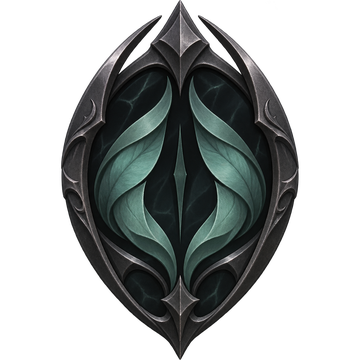
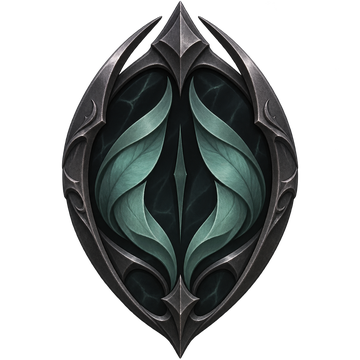
邪眼診断のマイページに、証の覚醒後の画像を追加：購入権限が有効な記録だけ覚醒後、読めない・未購入・返金済みは覚醒前。覚醒前後の14枚を同じ切り抜き枠で揃える
Claude-Session: https://claude.ai/code/session_01G98Q4k59pxprHjFdWRszS7

diff --git a/js/jagan-mypage.js b/js/jagan-mypage.js
@@ -57,15 +57,26 @@
     return r.data || [];
   }
 
-  // 証（覚醒前）：邪眼元素ごとの画像。保存時の見出し（h.element）の漢字から選ぶ。覚醒後の画像は販売の開始まで使わない
-  var EMBLEM_DIR = 'assets/emblems/jagan/record/';
+  // 証：邪眼元素ごとの画像。保存時の見出し（h.element）の漢字から選ぶ。
+  //   覚醒前（record）が既定。その記録に有効な購入権限（jagan_entitlements.status='active'）があるときだけ覚醒後（awakened）。
+  //   購入権限が読めないとき（取得の失敗・未購入）は覚醒前のまま（購入済みと誤って見せない）。
+  var EMBLEM_DIR = 'assets/emblems/jagan/';
   var EMBLEM_FILE = { '炎': 'pyro', '水': 'hydro', '風': 'anemo', '雷': 'electro', '草': 'dendro', '氷': 'cryo', '岩': 'geo' };
-  function emblemHtml(label) {
+  function emblemHtml(label, awakened) {
     var f = EMBLEM_FILE[label];
-    return f ? '<span class="jg-mp-emblem" aria-hidden="true"><img src="' + EMBLEM_DIR + f + '.png" alt="" width="72" height="72" loading="lazy" decoding="async"></span>' : '';
+    return f ? '<span class="jg-mp-emblem' + (awakened ? ' is-awakened' : '') + '" aria-hidden="true"><img src="' + EMBLEM_DIR + (awakened ? 'awakened/' : 'record/') + f + '.png" alt="" width="72" height="72" loading="lazy" decoding="async"></span>' : '';
+  }
+  async function loadAwakened() {
+    // 本人の行だけ（RLS）。失敗しても記録の表示は止めない
+    try {
+      var r = await supabaseClient.from('jagan_entitlements').select('result_id,status').eq('status', 'active');
+      if (r.error || !Array.isArray(r.data)) return {};
+      var m = {}; r.data.forEach(function (e) { if (e && e.status === 'active') m[e.result_id] = true; });
+      return m;
+    } catch (e) { return {}; }
   }
 
-  function rowHtml(row) {
+  function rowHtml(row, awakenedMap) {
     var h = row.headline || {};
     // 保存時の見出しをそのまま出す（DTI のコード・呼び名が無い旧版の記録は、読み替えずにコードを出さない）
     var head = (h.element || '—') + ' × ' + (h.type || '—');
@@ -73,7 +84,7 @@
     var fat = h.character ? ('最も近しいファトゥス：' + h.character + '（' + h.matchPercent + '%一致）') : '';
     var d = new Date(row.created_at);
     return '<li class="jg-mp-row">' +
-      emblemHtml(h.element) +
+      emblemHtml(h.element, !!(awakenedMap && awakenedMap[row.result_id])) +
       '<div class="jg-mp-body"><div class="jg-mp-head">' + esc(head) + '</div><div class="jg-mp-dti">' + esc(dti) + '</div>' + (fat ? '<div class="jg-mp-sub">' + esc(fat) + '</div>' : '') +
       '<div class="jg-mp-date">' + esc(isNaN(d) ? '' : d.toLocaleDateString('ja-JP')) + '</div></div>' +
       '<div class="jg-mp-ops"><a class="mp-btn" href="/jagan/?saved=' + encodeURIComponent(row.result_id) + '">開く ›</a>' +
@@ -105,13 +116,14 @@
     if (saved) lastOutcome = saved;
     var rows = null;
     try { rows = await loadRows(); } catch (e) { rows = null; }
+    var awakened = rows && rows.length ? await loadAwakened() : {};
     var note = '';
     if (lastOutcome && lastOutcome.ok) note = '<p class="jg-mp-note" role="status">邪眼診断の結果を保存しました。</p>';
     else if (lastOutcome && !lastOutcome.ok) note = '<p class="jg-mp-note" role="alert">邪眼診断の結果を保存できませんでした' + (hasPending() ? '（このページを開き直すと再試行します）' : '') + '。</p>';
     var inner;
     if (rows === null) inner = note + '<p class="jg-mp-note">邪眼診断の記録を読み込めませんでした。</p>';
     else if (!rows.length) inner = note + '<p class="jg-mp-note">まだ保存した結果はありません。<a href="/jagan/">邪眼診断を受ける ›</a></p>';
-    else inner = note + '<ul class="jg-mp-list">' + rows.map(rowHtml).join('') + '</ul><p class="jg-mp-note"><a href="/jagan/">邪眼診断をもう一度受ける ›</a></p>';
+    else inner = note + '<ul class="jg-mp-list">' + rows.map(function (r) { return rowHtml(r, awakened); }).join('') + '</ul><p class="jg-mp-note"><a href="/jagan/">邪眼診断をもう一度受ける ›</a></p>';
     var old = document.getElementById('jagan');
     if (old) old.remove();
     var acc = root.querySelector('[aria-labelledby="mp-acc-h"]');

diff --git a/scripts/build-public.js b/scripts/build-public.js
@@ -86,6 +86,7 @@ const PUBLIC_DIRS = [
   { dir: 'assets/emblems/2026-autumn/record', ext: '.png' },   // マイページの記録エンブレム
   { dir: 'assets/emblems/2026-autumn/awakened', ext: '.png' }, // マイページの覚醒エンブレム
   { dir: 'assets/emblems/jagan/record', ext: '.png' },        // 邪眼診断のマイページの証（覚醒前。元素ごと7枚）
+  { dir: 'assets/emblems/jagan/awakened', ext: '.png' },      // 同・覚醒後（購入済みの記録。元素ごと7枚）
   { dir: 'assets/ogp/backgrounds', ext: '.jpg' },              // api/og-image が自サイトから取得する背景（下地が無い時の描き方）
   { dir: 'assets/ogp/bases', ext: '.jpg' },                    // api/og-image の下地（タイプ別35枚。scripts/build-ogp-bases.mjs）
   { dir: 'assets/ogp/bases', ext: '.png' },                    // api/og-image の MIRROR 欄の札（元素別7枚）

diff --git a/docs/jagan/IMPLEMENTATION_REPORT_PREVIEW.md b/docs/jagan/IMPLEMENTATION_REPORT_PREVIEW.md
@@ -121,3 +121,8 @@
 - 2026-11-06：マイページの証（覚醒前）を邪眼診断の記録の行に追加。assets/emblems/jagan/record/{pyro,hydro,anemo,electro,dendro,cryo,geo}.png（360×360・各約130KB。提供画像1254×1254を縮小）。
   元素への割り当ては画像の主な色相で確かめ、添付の表示順（氷・炎・水・雷・風・岩・草）と一致。保存時の見出しの元素（漢字）から選ぶ。ETI の証（assets/emblems/2026-autumn/）は変更しない。
   ETI の「記録」にある減光（不透明度.78・彩度.8・明度.84）は、暗い色の証が沈むため付けていない。覚醒後の画像は未提供・未使用（販売の開始まで）。
+- 2026-11-06：証の覚醒後を追加（assets/emblems/jagan/awakened/、元素ごと7枚・360×360）。覚醒前・覚醒後の14枚は、同じ切り抜き枠で作り直した（切り替えても位置・大きさがずれない）。
+  元素への割り当ては色相で確かめ、添付の表示順（水・炎・氷・雷・岩・風・草）と一致。
+  マイページ（js/jagan-mypage.js）：その記録に有効な購入権限（jagan_entitlements.status='active'、本人の行だけ＝RLS）があるときだけ覚醒後。
+  権限を読めない・未購入・返金済みは覚醒前のまま（購入済みと誤って見せない）。販売前（sales_open=false）は購入権限の行が作られないため、全記録が覚醒前。
+  画像（確認用の模擬。実データではない）：evidence/20261106_mypage_emblems_awakened_mock.png
